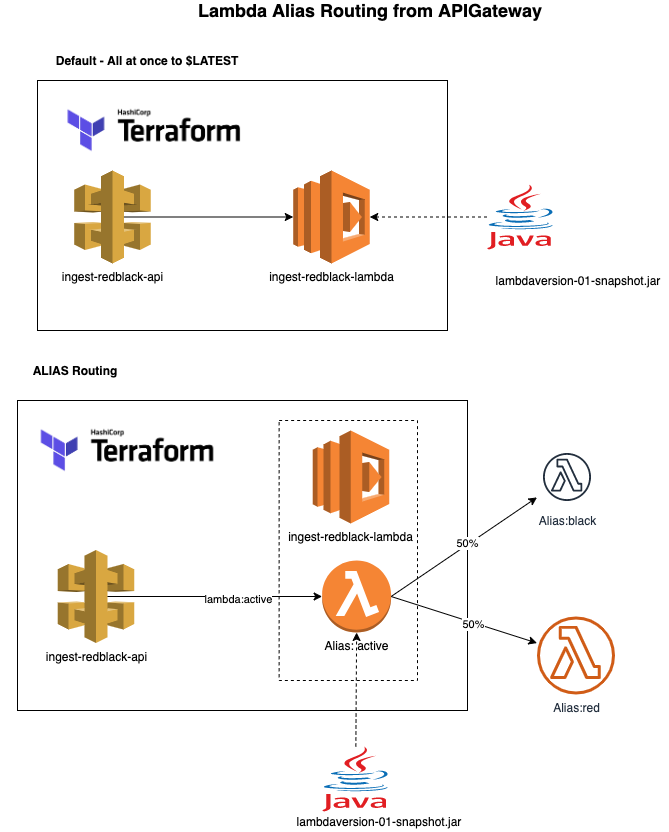
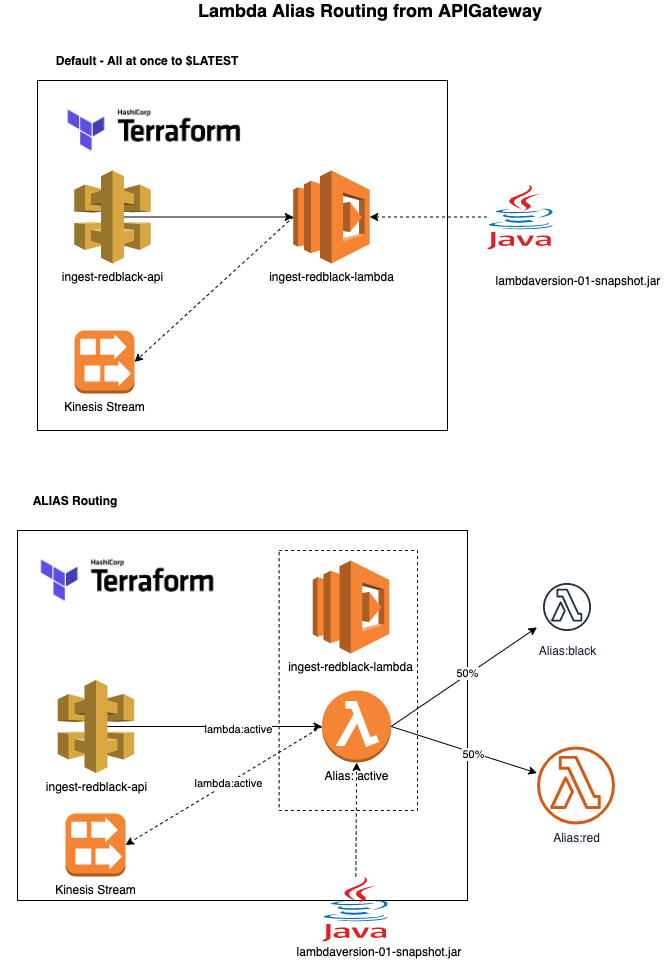
add kinesis stream alias routing to lambda

diff --git a/README.md b/README.md
@@ -1,5 +1,7 @@
 ### Lambda Version Alias
 
+This example provides house alias routing can be used in API Gateway and in Kinesis Streams (lambda event mapping to alias)
+
 High level Steps
 
 - The solution has "src" and "templates". src has the java sample lambda. templates have the .tf files. 
@@ -33,6 +35,14 @@ $ cd ..
 $ chmod +x exec.sh
 $ ./exec.sh
 
+# Sample commands to push to Kinesis stream
+
+aws kinesis put-record --stream-name ingest-redblack-kinesis --data "{\"id\": \"value1\"}" --partition-key 'id'
+aws kinesis put-record --stream-name ingest-redblack-kinesis --data "{\"id\": \"value2\"}" --partition-key 'id'
+aws kinesis put-record --stream-name ingest-redblack-kinesis --data "{\"id\": \"value3\"}" --partition-key 'id'
+aws kinesis put-record --stream-name ingest-redblack-kinesis --data "{\"id\": \"value4\"}" --partition-key 'id'
+aws kinesis put-record --stream-name ingest-redblack-kinesis --data "{\"id\": \"value5\"}" --partition-key 'id'
+aws kinesis put-record --stream-name ingest-redblack-kinesis --data "{\"id\": \"value6\"}" --partition-key 'id'
 
 
 ### References
